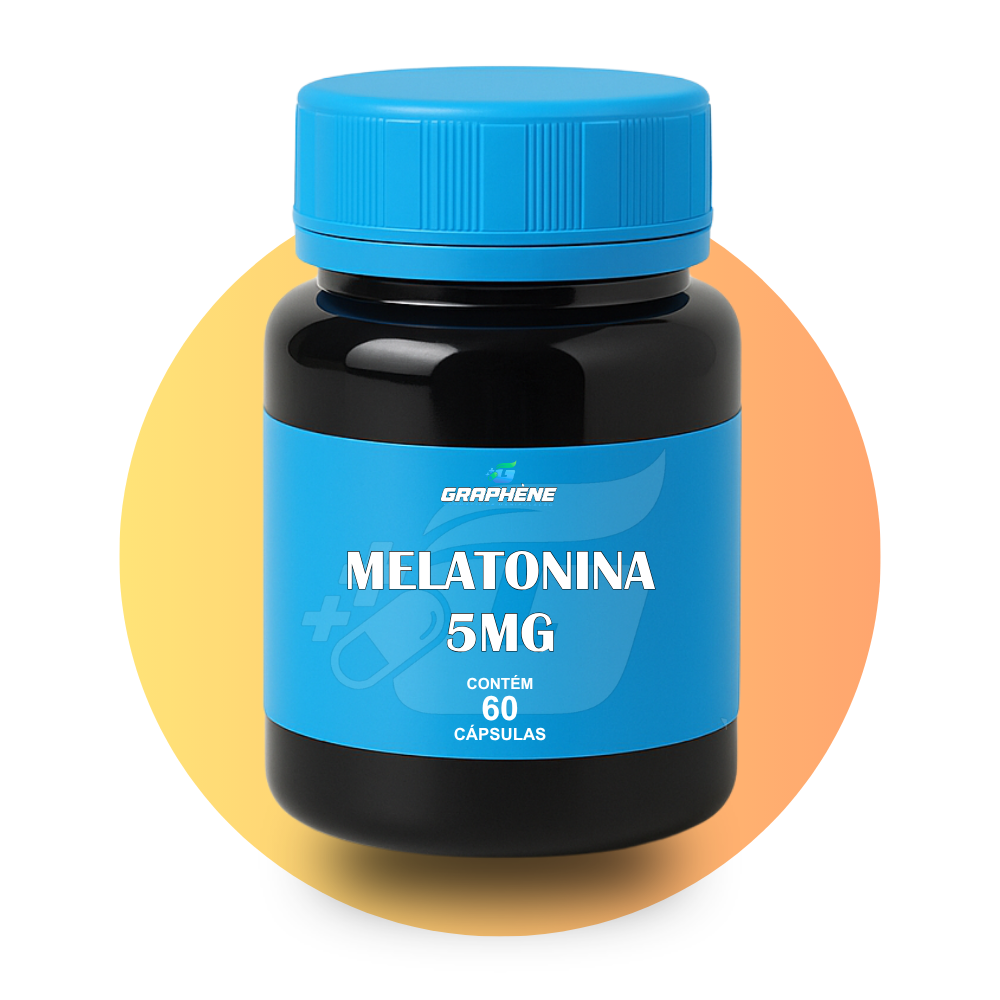
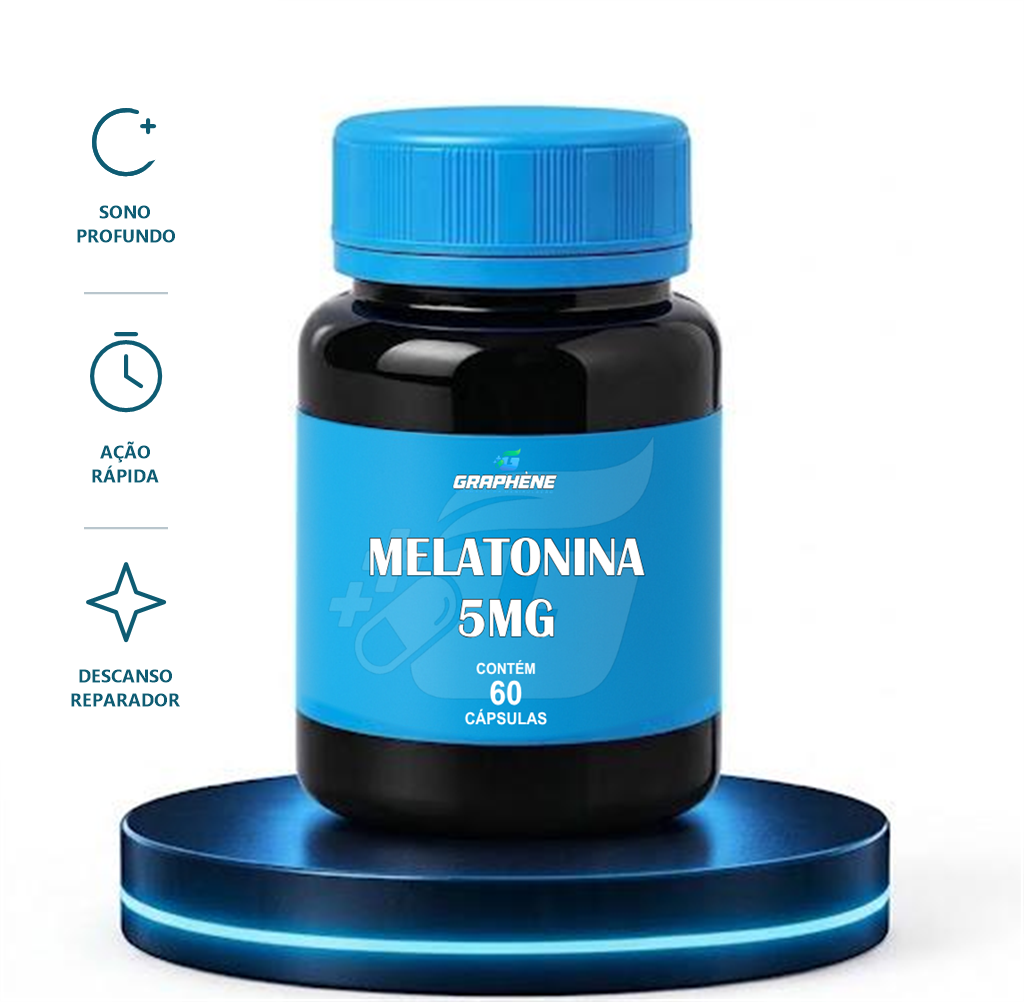
feat: padroniza imagens dos produtos com fundo branco, pedestal 3D e icones de beneficios

diff --git a/src/components/ProductGrid.jsx b/src/components/ProductGrid.jsx
@@ -4,6 +4,7 @@ import { ShoppingBag, Zap } from 'lucide-react';
 import { Link, useNavigate } from 'react-router-dom';
 import { useStore } from '../context/StoreContext';
 import { toast } from 'sonner';
+import { resolveProductImage } from '../utils/productImages';
 
 const categories = ['Todos', 'Metabolismo & Queima', 'Longevidade & Saúde', 'Performance & Força', 'Sono & Bem-Estar'];
 
@@ -22,7 +23,7 @@ const defaultProducts = [
         category: 'Longevidade & Saúde',
         description: 'Coenzima Q10 100mg. Fundamental para a produção de energia celular e suporte à saúde cardíaca. Ação antioxidante. Contém 60 cápsulas.',
         price: null,
-        image_url: 'https://ngphbcrdphluuphctvpr.supabase.co/storage/v1/object/public/receitas/product_launch_1765958041451_rnbuq.jpg'
+        image_url: '/assets/products/coenzima_q10.png'
     },
     {
         id: '4',
@@ -30,7 +31,7 @@ const defaultProducts = [
         category: 'Metabolismo & Queima',
         description: 'Acelerador metabólico avançado. Mais energia e queima calórica eficiente.',
         price: null,
-        image_url: '/assets/termogenico.png'
+        image_url: '/assets/products/termogenico.png'
     },
     {
         id: '15',
@@ -38,7 +39,7 @@ const defaultProducts = [
         category: 'Performance & Força',
         description: 'Creatina Monohidratada 200g. Auxilia no aumento de força e massa muscular. Fórmula pura e sem sabor. Contém 200g (pó).',
         price: null,
-        image_url: 'https://ngphbcrdphluuphctvpr.supabase.co/storage/v1/object/public/receitas/product_1765960256563.png'
+        image_url: '/assets/products/creatina.png'
     },
     {
         id: '9',
@@ -46,7 +47,7 @@ const defaultProducts = [
         category: 'Longevidade & Saúde',
         description: 'Colágeno Verisol® 2.5g. Auxilia na manutenção da saúde da pele, contribuindo para a elasticidade e redução de rugas. Contém 30 sachês.',
         price: null,
-        image_url: 'https://ngphbcrdphluuphctvpr.supabase.co/storage/v1/object/public/receitas/product_launch_1765957547354_m0p54c.jpg'
+        image_url: '/assets/products/colageno_verisol.png'
     },
     {
         id: '3',
@@ -54,7 +55,7 @@ const defaultProducts = [
         category: 'Metabolismo & Queima',
         description: 'Autêntico extrato da laranja moro. Potente na redução de medidas abdominais.',
         price: null,
-        image_url: '/assets/morosil_new.png'
+        image_url: '/assets/products/morosil.png'
     },
     {
         id: '1',
@@ -62,7 +63,7 @@ const defaultProducts = [
         category: 'Sono & Bem-Estar',
         description: 'Sono reparador, rápido e combate à insônia. Regula o ritmo biológico natural.',
         price: null,
-        image_url: '/assets/melatonina_caps.png'
+        image_url: '/assets/products/melatonina.png'
     },
     {
         id: '5',
@@ -70,7 +71,7 @@ const defaultProducts = [
         category: 'Longevidade & Saúde',
         description: 'Superalimento para vigor físico, libido e equilíbrio hormonal.',
         price: null,
-        image_url: '/assets/maca_peruana.png'
+        image_url: '/assets/products/maca_peruana.png'
     },
     {
         id: '7',
@@ -78,7 +79,7 @@ const defaultProducts = [
         category: 'Longevidade & Saúde',
         description: 'Vitamina D3 5000 UI. Auxilia na formação de ossos e dentes, na absorção de cálcio e fósforo e no funcionamento do sistema imune. Contém 60 cápsulas.',
         price: null,
-        image_url: 'https://ngphbcrdphluuphctvpr.supabase.co/storage/v1/object/public/receitas/product_launch_1765957546699_h3wdl.jpg'
+        image_url: '/assets/products/vitamina_d3.png'
     },
     {
         id: '6',
@@ -86,7 +87,7 @@ const defaultProducts = [
         category: 'Longevidade & Saúde',
         description: 'Magnésio Dimalato 500mg. Auxilia no funcionamento muscular e neuromuscular, metabolismo energético e formação de ossos e dentes. Contém 90 cápsulas.',
         price: null,
-        image_url: 'https://ngphbcrdphluuphctvpr.supabase.co/storage/v1/object/public/receitas/product_launch_1765957545725_3lezkg.jpg'
+        image_url: '/assets/products/magnesio_dimalato.png'
     },
     {
         id: '8',
@@ -94,7 +95,7 @@ const defaultProducts = [
         category: 'Longevidade & Saúde',
         description: 'Cúrcuma 500mg (Curcumina 95%). Potente ação antioxidante e anti-inflamatória. Auxilia na proteção das células contra radicais livres. Contém 60 cápsulas.',
         price: null,
-        image_url: 'https://ngphbcrdphluuphctvpr.supabase.co/storage/v1/object/public/receitas/product_launch_1765957547049_lcx7rn.jpg'
+        image_url: '/assets/products/curcuma.png'
     },
     {
         id: '10',
@@ -102,7 +103,7 @@ const defaultProducts = [
         category: 'Longevidade & Saúde',
         description: 'Biotina 10000mcg. Vitamina essencial para a manutenção da saúde da pele, cabelos e unhas. Contém 60 cápsulas.',
         price: null,
-        image_url: 'https://ngphbcrdphluuphctvpr.supabase.co/storage/v1/object/public/receitas/product_launch_1765958040097_ciols.png'
+        image_url: '/assets/products/biotina.png'
     },
     {
         id: '11',
@@ -110,7 +111,7 @@ const defaultProducts = [
         category: 'Longevidade & Saúde',
         description: 'Resveratrol 250mg (Trans-Resveratrol). Potente antioxidante que auxilia na saúde cardiovascular e combate o envelhecimento celular. Contém 60 cápsulas.',
         price: null,
-        image_url: 'https://ngphbcrdphluuphctvpr.supabase.co/storage/v1/object/public/receitas/product_launch_1765958041072_ujzzek.png'
+        image_url: '/assets/products/resveratrol.png'
     },
     {
         id: '14',
@@ -118,7 +119,7 @@ const defaultProducts = [
         category: 'Performance & Força',
         description: 'Zinco Quelado 30mg. Mineral essencial para o fortalecimento do sistema imune e processos de cicatrização. Alta biodisponibilidade. Contém 60 cápsulas.',
         price: null,
-        image_url: 'https://ngphbcrdphluuphctvpr.supabase.co/storage/v1/object/public/receitas/product_launch_1765958044634_h6sufc.jpg'
+        image_url: '/assets/products/zinco_quelado.png'
     },
     {
         id: '13',
@@ -126,7 +127,7 @@ const defaultProducts = [
         category: 'Longevidade & Saúde',
         description: 'Ômega 3 1000mg. Óleo de peixe rico em EPA e DHA. Auxilia na saúde do coração, cérebro e controle dos níveis de colesterol. Contém 90 cápsulas.',
         price: null,
-        image_url: 'https://ngphbcrdphluuphctvpr.supabase.co/storage/v1/object/public/receitas/product_launch_1765958041781_trjicn.jpg'
+        image_url: '/assets/products/omega_3.png'
     },
     {
         id: '2',
@@ -134,7 +135,7 @@ const defaultProducts = [
         category: 'Sono & Bem-Estar',
         description: 'Adaptógeno natural. Reduz estresse, ansiedade e melhora o foco e disposição.',
         price: null,
-        image_url: '/assets/ashwagandha.png'
+        image_url: '/assets/products/ashwagandha.png'
     }
 ];
 
@@ -160,7 +161,7 @@ const ProductGrid = ({ searchTerm = '' }) => {
                         name: item.name,
                         description: item.description,
                         price: item.price && parseFloat(item.price) > 0 ? parseFloat(item.price).toFixed(2).replace('.', ',') : null,
-                        image_url: item.image_url || '/assets/morosil_new.png'
+                        image_url: resolveProductImage(item)
                     }));
                     setProductsList(formatted);
                 }
@@ -317,12 +318,12 @@ const ProductGrid = ({ searchTerm = '' }) => {
                 
                 .product-img-box {
                     position: relative;
-                    height: 220px;
+                    height: 255px;
                     display: flex;
                     align-items: center;
                     justify-content: center;
-                    padding: 16px;
-                    background: rgba(255,255,255,0.02);
+                    padding: 8px 12px;
+                    background: #ffffff;
                     border-bottom: 1px solid var(--border-subtle);
                 }
 

diff --git a/src/utils/productImages.js b/src/utils/productImages.js
@@ -1,0 +1,67 @@
+const LEGACY_IMAGE_PATTERNS = [
+    '/assets/termogenico.png',
+    '/assets/morosil_new.png',
+    '/assets/morosil.png',
+    '/assets/melatonina_caps.png',
+    '/assets/maca_peruana.png',
+    '/assets/ashwagandha.png',
+    '/assets/creatina.jpg',
+    'product_launch_176595',
+    'product_1765960256563.png',
+];
+
+const PRODUCT_ID_MAP = {
+    '1': '/assets/products/melatonina.png',
+    '2': '/assets/products/ashwagandha.png',
+    '3': '/assets/products/morosil.png',
+    '4': '/assets/products/termogenico.png',
+    '5': '/assets/products/maca_peruana.png',
+    '6': '/assets/products/magnesio_dimalato.png',
+    '7': '/assets/products/vitamina_d3.png',
+    '8': '/assets/products/curcuma.png',
+    '9': '/assets/products/colageno_verisol.png',
+    '10': '/assets/products/biotina.png',
+    '11': '/assets/products/resveratrol.png',
+    '12': '/assets/products/coenzima_q10.png',
+    '13': '/assets/products/omega_3.png',
+    '14': '/assets/products/zinco_quelado.png',
+    '15': '/assets/products/creatina.png',
+};
+
+export const isLegacyProductImage = (url = '') => {
+    if (!url) return true;
+    return LEGACY_IMAGE_PATTERNS.some(pattern => url.includes(pattern));
+};
+
+export const resolveProductImage = (product) => {
+    if (!product) return '/assets/products/morosil.png';
+    const rawUrl = product.image_url || '';
+
+    if (rawUrl && !isLegacyProductImage(rawUrl)) {
+        return rawUrl;
+    }
+
+    const idKey = String(product.id || '');
+    if (PRODUCT_ID_MAP[idKey]) {
+        return PRODUCT_ID_MAP[idKey];
+    }
+
+    const name = String(product.name || '').toLowerCase();
+    if (name.includes('coenzima') || name.includes('q10')) return '/assets/products/coenzima_q10.png';
+    if (name.includes('termog')) return '/assets/products/termogenico.png';
+    if (name.includes('creatina')) return '/assets/products/creatina.png';
+    if (name.includes('verisol') || name.includes('colágeno') || name.includes('colageno')) return '/assets/products/colageno_verisol.png';
+    if (name.includes('morosil') || name.includes('laranja moro')) return '/assets/products/morosil.png';
+    if (name.includes('melatonina')) return '/assets/products/melatonina.png';
+    if (name.includes('maca')) return '/assets/products/maca_peruana.png';
+    if (name.includes('vitamina d')) return '/assets/products/vitamina_d3.png';
+    if (name.includes('magnésio') || name.includes('magnesio')) return '/assets/products/magnesio_dimalato.png';
+    if (name.includes('cúrcuma') || name.includes('curcuma')) return '/assets/products/curcuma.png';
+    if (name.includes('biotina')) return '/assets/products/biotina.png';
+    if (name.includes('resveratrol')) return '/assets/products/resveratrol.png';
+    if (name.includes('zinco')) return '/assets/products/zinco_quelado.png';
+    if (name.includes('ômega') || name.includes('omega')) return '/assets/products/omega_3.png';
+    if (name.includes('ashwagandha')) return '/assets/products/ashwagandha.png';
+
+    return rawUrl || '/assets/products/coenzima_q10.png';
+};

diff --git a/src/components/SortableProductCard.jsx b/src/components/SortableProductCard.jsx
@@ -1,8 +1,8 @@
-
 import { useSortable } from '@dnd-kit/sortable';
 import { CSS } from '@dnd-kit/utilities';
 import Button from './Button';
 import { GripVertical, Pencil, Trash2, Image as ImageIcon } from 'lucide-react';
+import { resolveProductImage } from '../utils/productImages';
 
 const SortableProductCard = ({ product, handleOpenModal, handleDelete }) => {
     const {
@@ -19,6 +19,8 @@ const SortableProductCard = ({ product, handleOpenModal, handleDelete }) => {
         touchAction: 'auto',
     };
 
+    const resolvedImg = resolveProductImage(product);
+
     return (
         <div ref={setNodeRef} style={style} className="product-card-sortable">
             <div style={{ padding: '1.5rem', background: 'var(--bg-dark-secondary)', border: '1px solid var(--border-dark)', borderRadius: 'var(--radius-md)', position: 'relative', display: 'flex', flexDirection: 'column', gap: '1rem', height: '100%' }}>
@@ -34,9 +36,9 @@ const SortableProductCard = ({ product, handleOpenModal, handleDelete }) => {
                 </button>
 
                 {/* Image */}
-                <div style={{ height: '180px', background: 'rgba(255,255,255,0.02)', borderRadius: 'var(--radius-sm)', overflow: 'hidden', display: 'flex', alignItems: 'center', justifyContent: 'center', pointerEvents: 'none' }}>
-                    {product.image_url ? (
-                        <img src={product.image_url} alt={product.name} style={{ width: '100%', height: '100%', objectFit: 'contain' }} />
+                <div style={{ height: '190px', background: '#ffffff', borderRadius: 'var(--radius-sm)', overflow: 'hidden', display: 'flex', alignItems: 'center', justifyContent: 'center', padding: '6px', pointerEvents: 'none' }}>
+                    {resolvedImg ? (
+                        <img src={resolvedImg} alt={product.name} style={{ width: '100%', height: '100%', objectFit: 'contain' }} />
                     ) : (
                         <ImageIcon size={40} opacity={0.3} />
                     )}

diff --git a/src/pages/ProductPage.jsx b/src/pages/ProductPage.jsx
@@ -6,6 +6,7 @@ import { supabase } from '../lib/supabaseClient';
 import StoreLayout from '../components/StoreLayout';
 import { useStore } from '../context/StoreContext';
 import { money } from '../utils/commerce';
+import { resolveProductImage } from '../utils/productImages';
 import { useProductSeo } from '../components/SeoManager';
 import '../styles/purchase.css';
 
@@ -33,7 +34,7 @@ export default function ProductPage() {
         <Link to="/#produtos" className="purchase-back"><ArrowLeft size={16} /> Continuar comprando</Link>
         {!product ? <div className="purchase-empty" role="status"><h1>{result.id === id ? result.error : 'Carregando produto…'}</h1><Link to="/#produtos">Ver produtos</Link></div> :
             <div className="purchase-product">
-                <div className="purchase-product-photo"><img src={product.image_url || '/assets/logo.png'} alt={product.name} /></div>
+                <div className="purchase-product-photo" style={{ background: '#ffffff' }}><img src={resolveProductImage(product)} alt={product.name} /></div>
                 <div><span className="purchase-eyebrow">Graphène Manipulações • Cabo Frio, RJ</span><h1>{product.name}</h1><p className="purchase-description">{product.description}</p>
                     <div className="purchase-product-price"><small>Preço por unidade</small><strong>{hasPrice ? money(product.price) : 'Preço não informado'}</strong></div>
                     <div className="purchase-product-actions"><button className="purchase-primary" disabled={!hasPrice} onClick={() => buy(true)}>Comprar agora <ArrowRight size={18} /></button><button className="purchase-secondary" disabled={!hasPrice} onClick={() => buy(false)}><ShoppingBag size={18} /> Adicionar ao carrinho</button></div>

diff --git a/src/components/AdminProducts.jsx b/src/components/AdminProducts.jsx
@@ -20,6 +20,7 @@ import {
 } from '@dnd-kit/sortable';
 import SortableProductCard from './SortableProductCard';
 import { getSession } from '../utils/security';
+import { resolveProductImage } from '../utils/productImages';
 
 const AdminProducts = () => {
     const [products, setProducts] = useState([]);
@@ -59,7 +60,7 @@ const AdminProducts = () => {
                 p_token: session?.token || '',
             });
             if (error || data?.error) throw new Error(data?.error || 'Não foi possível carregar os produtos');
-            setProducts(data.products || []);
+            setProducts((data.products || []).map(p => ({ ...p, image_url: resolveProductImage(p) })));
         } catch (error) {
             console.error('Error fetching products:', error);
         } finally {
